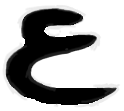
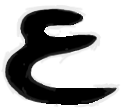
fixed ein char

diff --git a/make_plate_from_png.py b/make_plate_from_png.py
@@ -87,6 +87,10 @@ mini_numbers = [
         ]
 
 chars = [ 
+          {"ch":'EIN',
+           "position":(260, 30),
+           "size":(110, 110),
+           },
         #  {"ch":'B',
         #    "position":(260, 50),
         #    "size":(110, 90),
